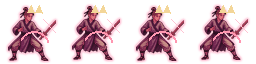
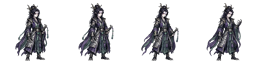
Redo yao xiu enemy from GPT sheets

diff --git a/tools/cut_task41_yao_xiu_sheet.py b/tools/cut_task41_yao_xiu_sheet.py
@@ -1,0 +1,134 @@
+#!/usr/bin/env python3
+from pathlib import Path
+from PIL import Image
+
+ROOT = Path(__file__).resolve().parents[1]
+SRC = ROOT / "assets/source/task41/yao_xiu_anim_sheet_v1.png"
+ATTACK_SRC = ROOT / "assets/source/task41/yao_xiu_attack_sheet_v2.png"
+OUT_DIR = ROOT / "assets/characters/enemies/yao_xiu"
+
+FRAME_BOXES = {
+    "idle": [
+        (176, 40, 456, 516),
+        (572, 52, 864, 520),
+        (1016, 42, 1340, 520),
+        (1456, 44, 1764, 520),
+    ],
+    "attack": [
+        (16, 236, 382, 760),
+        (382, 160, 700, 758),
+        (700, 256, 1044, 762),
+        (1032, 270, 1370, 766),
+        (1354, 380, 1754, 758),
+        (1752, 238, 2028, 768),
+    ],
+    "hurt": [
+        (420, 1110, 760, 1496),
+        (848, 1128, 1196, 1492),
+        (1228, 1154, 1588, 1494),
+    ],
+    "death": [
+        (58, 1630, 528, 1900),
+        (568, 1588, 956, 1898),
+        (992, 1680, 1468, 1912),
+        (1480, 1728, 2024, 1920),
+    ],
+}
+
+
+def white_to_alpha(im):
+    im = im.convert("RGBA")
+    px = im.load()
+    for y in range(im.height):
+        for x in range(im.width):
+            r, g, b, a = px[x, y]
+            dist = max(0, 255 - min(r, g, b))
+            if r > 248 and g > 248 and b > 248:
+                px[x, y] = (r, g, b, 0)
+            elif r > 242 and g > 242 and b > 242:
+                px[x, y] = (r, g, b, min(a, dist * 5))
+    return im
+
+
+def remove_small_fragments(im, min_area=20):
+    alpha = im.getchannel("A")
+    w, h = im.size
+    pix = alpha.load()
+    seen = set()
+    comps = []
+    for y in range(h):
+        for x in range(w):
+            if pix[x, y] <= 8 or (x, y) in seen:
+                continue
+            stack = [(x, y)]
+            seen.add((x, y))
+            pts = []
+            while stack:
+                px, py = stack.pop()
+                pts.append((px, py))
+                for nx in (px - 1, px, px + 1):
+                    for ny in (py - 1, py, py + 1):
+                        if nx < 0 or ny < 0 or nx >= w or ny >= h or (nx, ny) in seen:
+                            continue
+                        if pix[nx, ny] > 8:
+                            seen.add((nx, ny))
+                            stack.append((nx, ny))
+            comps.append(pts)
+    keep = set()
+    for pts in comps:
+        if len(pts) >= min_area:
+            keep.update(pts)
+    out = Image.new("RGBA", im.size, (0, 0, 0, 0))
+    src = im.load()
+    dst = out.load()
+    for x, y in keep:
+        dst[x, y] = src[x, y]
+    return out
+
+
+def strip_edge_alpha(im):
+    px = im.load()
+    w, h = im.size
+    for x in range(w):
+        px[x, 0] = px[x, 0][:3] + (0,)
+        px[x, h - 1] = px[x, h - 1][:3] + (0,)
+    for y in range(h):
+        px[0, y] = px[0, y][:3] + (0,)
+        px[w - 1, y] = px[w - 1, y][:3] + (0,)
+    return im
+
+
+def fit_frame(crop, size=64, pad=3):
+    crop = remove_small_fragments(white_to_alpha(crop))
+    bbox = crop.getchannel("A").getbbox()
+    out = Image.new("RGBA", (size, size), (0, 0, 0, 0))
+    if not bbox:
+        return out
+    spr = crop.crop(bbox)
+    scale = min((size - pad * 2) / spr.width, (size - pad * 2) / spr.height)
+    nw = max(1, int(spr.width * scale))
+    nh = max(1, int(spr.height * scale))
+    spr = spr.resize((nw, nh), Image.Resampling.LANCZOS)
+    out.alpha_composite(spr, ((size - nw) // 2, size - pad - nh))
+    return strip_edge_alpha(remove_small_fragments(out))
+
+
+def join(frames):
+    out = Image.new("RGBA", (64 * len(frames), 64), (0, 0, 0, 0))
+    for i, fr in enumerate(frames):
+        out.alpha_composite(fr, (i * 64, 0))
+    return out
+
+
+def main():
+    sheet = Image.open(SRC).convert("RGBA")
+    attack_sheet = Image.open(ATTACK_SRC).convert("RGBA")
+    OUT_DIR.mkdir(parents=True, exist_ok=True)
+    for anim, boxes in FRAME_BOXES.items():
+        source = attack_sheet if anim == "attack" else sheet
+        frames = [fit_frame(source.crop(box)) for box in boxes]
+        join(frames).save(OUT_DIR / f"{anim}.png")
+
+
+if __name__ == "__main__":
+    main()
